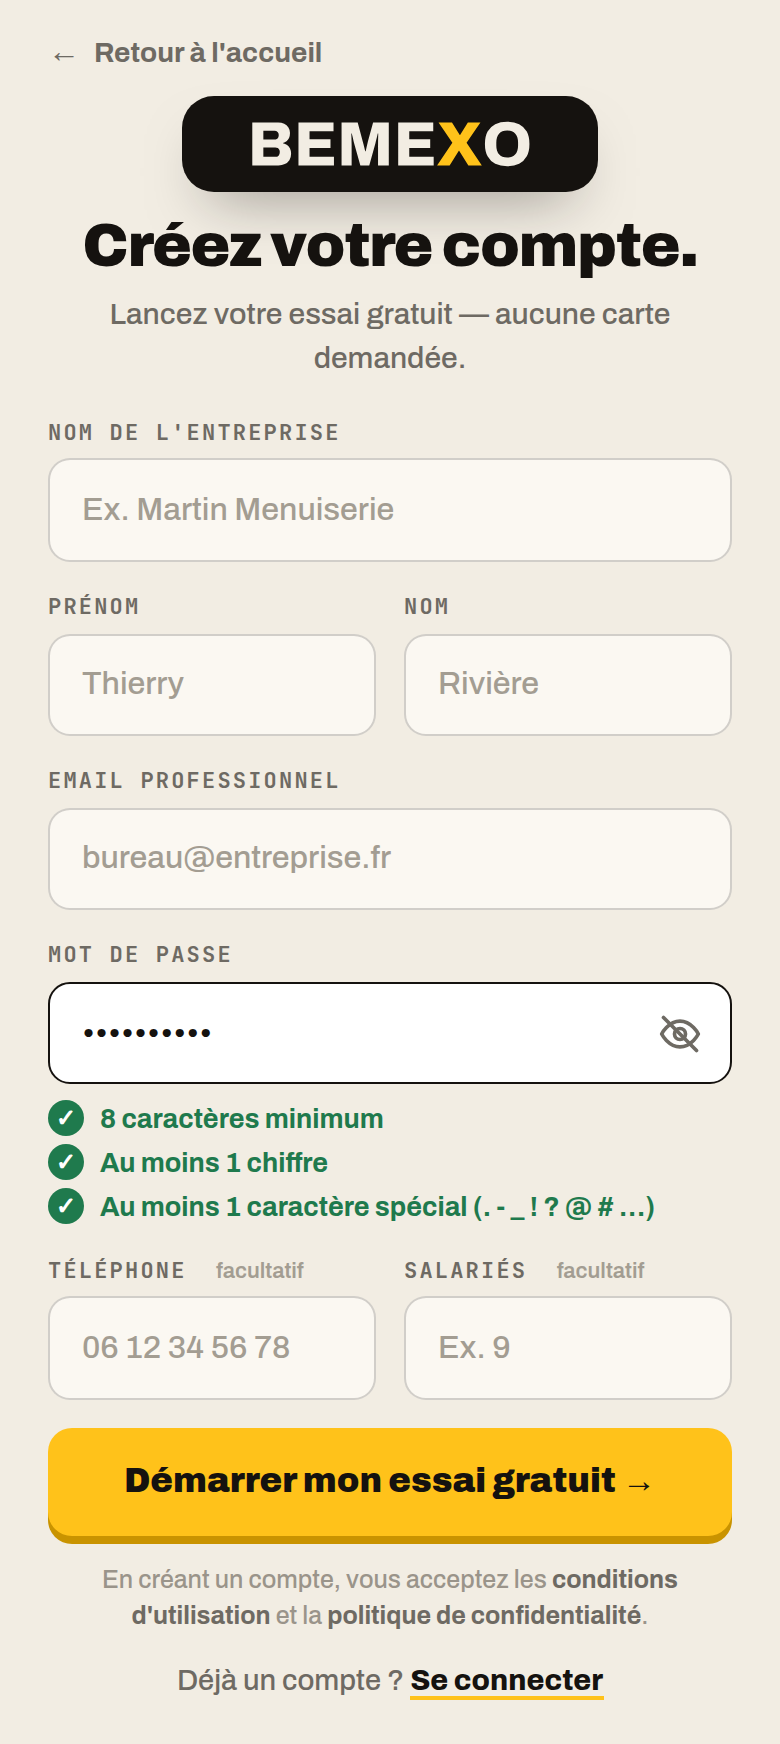
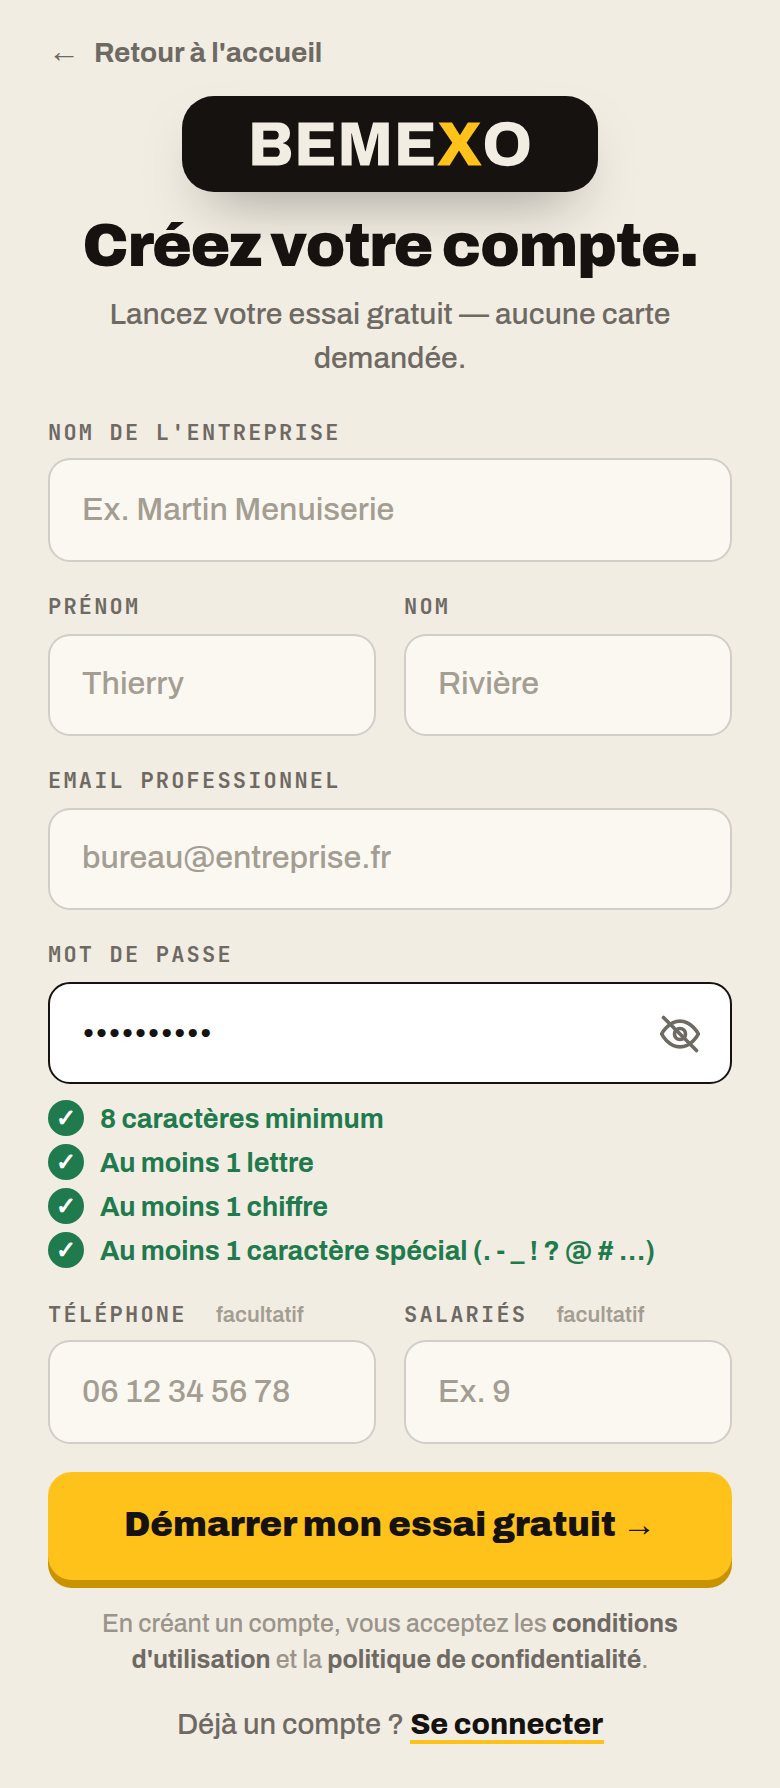
Mot de passe : condition « 1 lettre », message « même mot de passe », œil Edge
- Ajoute « Au moins 1 lettre » (a-z / A-Z) à la liste : le réglage Supabase
  « Letters and digits » l'exige. Sans elle, « 12/05/1990 » cochait les
  3 cases puis était refusé par le serveur.
- « Mot de passe oublié » puis le même mot de passe qu'avant : message clair
  au lieu de la règle (refus same_password du serveur).
- Edge : masque son œil natif, pour n'en garder qu'un.
- Tests : 51/51 ; captures mises à jour.

Claude-Session: https://claude.ai/code/session_01UjXHEzdjb9t6bteo8SrVhu

diff --git a/lib/password.ts b/lib/password.ts
@@ -17,12 +17,14 @@
 // Le serveur, lui, peut au plus exiger « lettres et chiffres » (aucun réglage
 // Supabase ne sait demander un caractère spécial sans majuscule) : il ne doit
 // jamais être PLUS strict que cette liste, sinon la personne coche tout puis se
-// fait refuser.
+// fait refuser. D'où la condition « 1 lettre » : « lettres et chiffres » exige
+// une lettre a-z ou A-Z, et « 12/05/1990 » (une date de naissance) cocherait
+// sinon les trois autres cases avant d'être refusé.
 
 export const PASSWORD_MIN_LENGTH = 8;
 
 export interface PasswordCheck {
-  id: 'length' | 'digit' | 'special';
+  id: 'length' | 'letter' | 'digit' | 'special';
   /** Ce qu'affiche la liste sous le champ. */
   label: string;
   /** Ce qui manque, dans une phrase : « il manque un chiffre ». */
@@ -41,10 +43,12 @@ const SPECIAL = new RegExp('[^\\p{L}\\p{N}\\s]', 'u');
  * « Caractère spécial » = tout ce qui n'est ni une lettre (accentuée ou non),
  * ni un chiffre, ni un espace : . - _ ! ? @ # € * … Une lettre accentuée (é)
  * ne compte PAS : « Bétonnière2 » n'a pas de caractère spécial, et la liste le
- * dit. Le chiffre est testé en ASCII (0-9), comme le fait Supabase.
+ * dit. La lettre et le chiffre sont testés en ASCII (a-z, A-Z, 0-9), comme le
+ * fait Supabase : « ééééé.12 » n'a pas de lettre pour le serveur.
  */
 export const PASSWORD_CHECKS: PasswordCheck[] = [
   { id: 'length', label: `${PASSWORD_MIN_LENGTH} caractères minimum`, missing: `${PASSWORD_MIN_LENGTH} caractères minimum`, test: (p) => p.length >= PASSWORD_MIN_LENGTH },
+  { id: 'letter', label: 'Au moins 1 lettre', missing: 'une lettre', test: (p) => /[A-Za-z]/.test(p) },
   { id: 'digit', label: 'Au moins 1 chiffre', missing: 'un chiffre', test: (p) => /[0-9]/.test(p) },
   { id: 'special', label: 'Au moins 1 caractère spécial (. - _ ! ? @ # …)', missing: 'un caractère spécial (. - _ ! ? @ # …)', test: (p) => SPECIAL.test(p) },
 ];
@@ -62,7 +66,7 @@ export function passwordProblem(password: string): string | null {
   const chars = failed.filter((c) => c.id !== 'length').map((c) => c.missing);
   const parts: string[] = [];
   if (short) parts.push(`au moins ${PASSWORD_MIN_LENGTH} caractères`);
-  if (chars.length) parts.push(`au moins ${chars.join(' et ')}`);
+  if (chars.length) parts.push(`au moins ${chars.length > 1 ? `${chars.slice(0, -1).join(', ')} et ${chars[chars.length - 1]}` : chars[0]}`);
   return `Le mot de passe doit contenir ${parts.join(', dont ')}.`;
 }
 
@@ -73,10 +77,7 @@ export const PASSWORD_PLACEHOLDER = 'Ex. Fatih.2024';
  * La règle en une phrase, pour traduire un refus venu du SERVEUR.
  *
  * Quand Supabase refuse un mot de passe, il le dit en anglais. On réaffiche la
- * règle entière plutôt que d'en deviner un morceau. « Une lettre » y figure :
- * c'est la seule exigence que le réglage serveur « lettres et chiffres » peut
- * ajouter à notre liste (un mot de passe fait uniquement de chiffres et de
- * symboles, très rare).
+ * règle entière plutôt que d'en deviner un morceau.
  */
 export const PASSWORD_RULE =
   `Mot de passe refusé : il faut au moins ${PASSWORD_MIN_LENGTH} caractères, `

diff --git a/app/connexion/page.tsx b/app/connexion/page.tsx
@@ -309,8 +309,13 @@ function SetPasswordForm({ isRecovery }: { isRecovery: boolean }) {
       // jour plus stricte que la nôtre, son refus arrive ici EN ANGLAIS, devant
       // un salarié qui vient de cliquer sur un lien d'invitation. On réaffiche
       // alors la règle en français plutôt que « Password should contain… ».
+      // « Mot de passe oublié » puis le même mot de passe qu'avant : le serveur
+      // refuse, mais ce n'est pas la règle qui est en cause.
+      const memeMotDePasse = updateError.code === 'same_password' || /different from the old/i.test(updateError.message);
       setError(
-        /password/i.test(updateError.message) ? PASSWORD_RULE : updateError.message
+        memeMotDePasse
+          ? 'C’est déjà votre mot de passe actuel. Choisissez-en un nouveau, ou connectez-vous directement avec celui-ci.'
+          : /password/i.test(updateError.message) ? PASSWORD_RULE : updateError.message
       );
       setLoading(false);
       return;

diff --git a/app/globals.css b/app/globals.css
@@ -86,3 +86,9 @@
     padding-bottom: env(safe-area-inset-bottom);
   }
 }
+
+/* Champ mot de passe : Edge ajoute son propre œil ; on garde seulement le nôtre
+   (components/password-input.tsx), sinon deux icônes se superposent. */
+input::-ms-reveal {
+  display: none;
+}

diff --git a/CONFIG-EMAILS.md b/CONFIG-EMAILS.md
@@ -123,7 +123,7 @@ Supabase → **Authentication** → **Providers** → **Email** → *Email OTP E
 
 ### Obligatoire — règle de mot de passe (octobre 2026)
 
-L'appli demande désormais : **8 caractères minimum, dont 1 chiffre et 1 caractère spécial** (ex. `Fatih.2024`), sans majuscule obligatoire. Le serveur ne doit jamais être plus strict, sinon la personne coche tout puis se fait refuser. **À régler AVANT de fusionner la PR qui change la règle** (aujourd'hui le serveur exige encore 12 caractères avec majuscule) :
+L'appli demande désormais : **8 caractères minimum, dont 1 lettre, 1 chiffre et 1 caractère spécial** (ex. `Fatih.2024`), sans majuscule obligatoire. Le serveur ne doit jamais être plus strict, sinon la personne coche tout puis se fait refuser. **À régler AVANT de fusionner la PR qui change la règle** (aujourd'hui le serveur exige encore 12 caractères avec majuscule) :
 
 Supabase → **Authentication** → **Providers** → **Email** :
 
@@ -132,7 +132,7 @@ Supabase → **Authentication** → **Providers** → **Email** :
 | Minimum password length | **8** |
 | Password Requirements | **Letters and digits** |
 
-Aucun réglage Supabase ne sait exiger un caractère spécial sans exiger aussi une majuscule : « Letters and digits » est le plus proche (il impose une lettre et un chiffre ; le caractère spécial est vérifié par l'appli).
+Aucun réglage Supabase ne sait exiger un caractère spécial sans exiger aussi une majuscule : « Letters and digits » est le plus proche (il impose une lettre et un chiffre, que l’appli demande aussi ; le caractère spécial est vérifié par l’appli seule).
 
 ---
 
